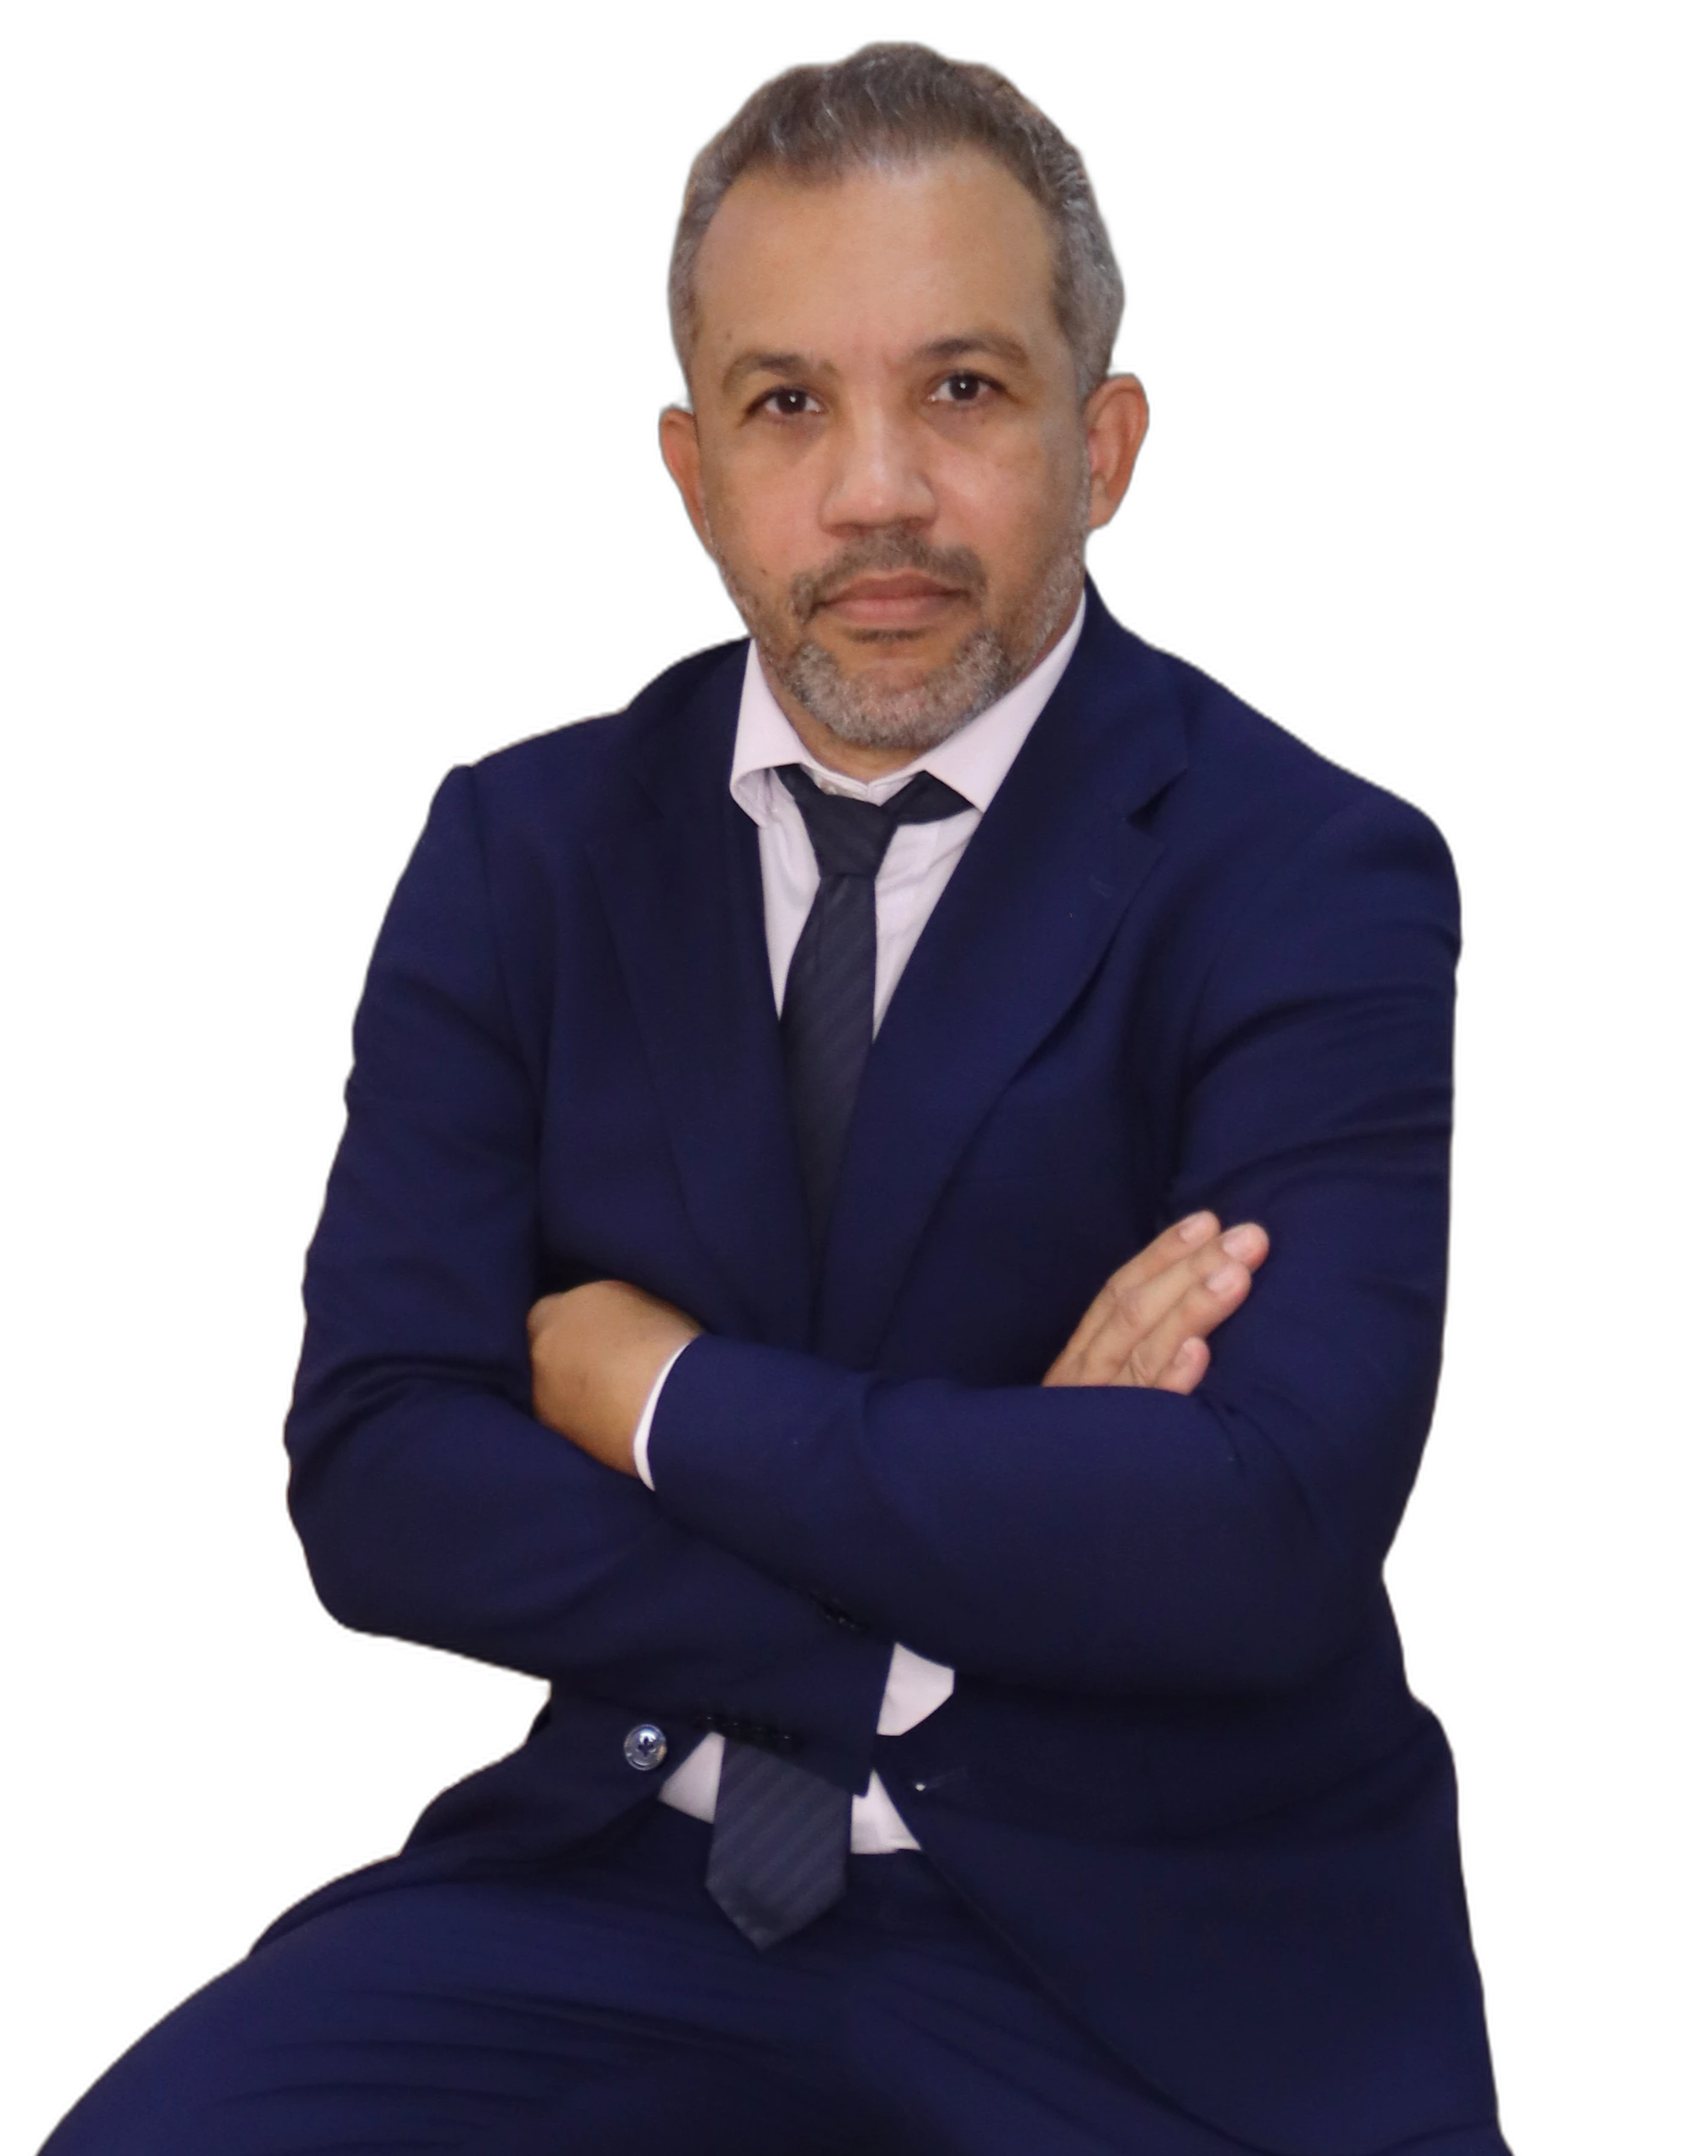
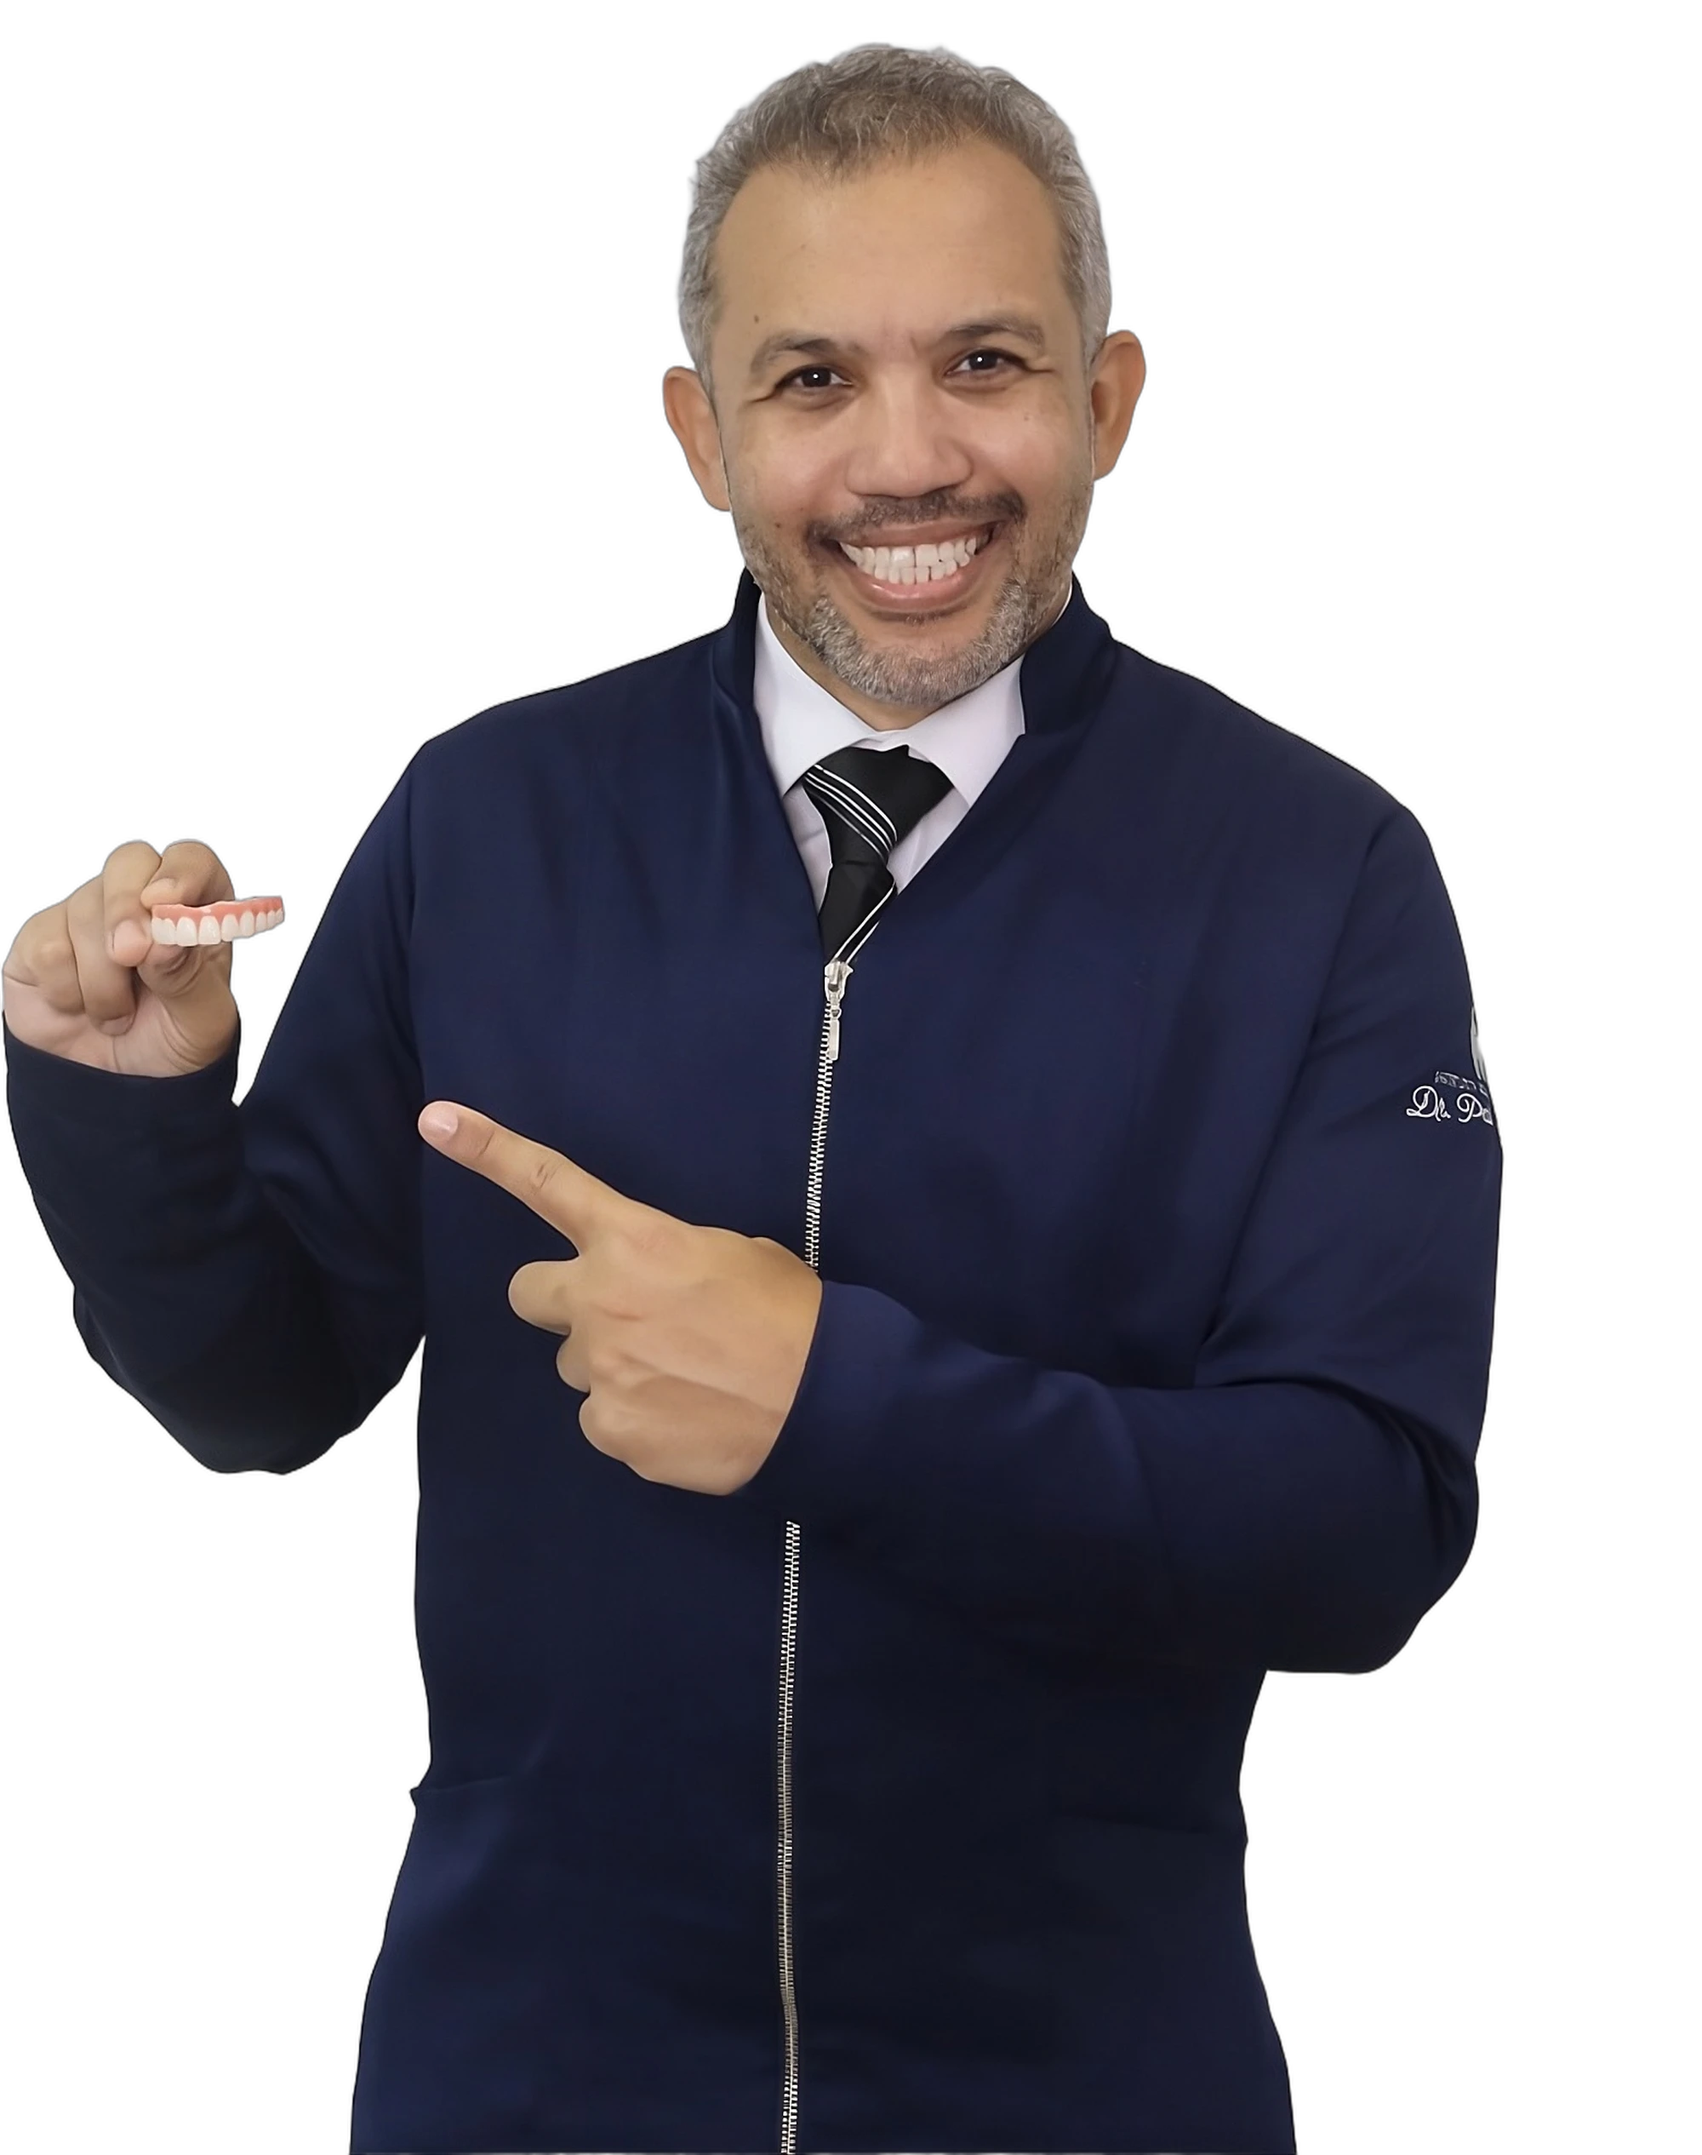
Troca a foto do Dr. Pablo nas 3 páginas (index, principal, imersão)
Nova foto: ele segurando uma prótese e apontando pra ela, em vez da pose
de braços cruzados. Corte, remoção de fundo e ajuste de resolução feitos
a partir da imagem enviada. Como as 3 páginas já compartilhavam o mesmo
arquivo dr-pablo-hero-bg.webp (ou passaram a compartilhar, no caso da
imersão), a troca ficou centralizada num único arquivo.

diff --git a/paginaprincipal.html b/paginaprincipal.html
@@ -310,7 +310,7 @@ footer p{color:var(--text-faint);font-size:0.75rem;margin:0 0 6px;max-width:none
   <div class="container hero__top">
     <div class="hero__photo-wrap">
       <div class="hero__photo-glow" aria-hidden="true"></div>
-      <img class="hero__photo" src="dr-pablo-hero-bg.webp" alt="Dr. Pablo Santos" width="2000" height="2533" loading="eager" fetchpriority="high">
+      <img class="hero__photo" src="dr-pablo-hero-bg.webp" alt="Dr. Pablo Santos" width="2000" height="2531" loading="eager" fetchpriority="high">
     </div>
     <div class="hero__text">
       <h1>Protocolo inferior: o passo a passo que 8.000+ casos já validaram, do zero ao acabamento, em um dia</h1>

diff --git a/index.html b/index.html
@@ -534,7 +534,7 @@ footer p{color:var(--texto-faint);font-size:var(--text-disclaimer);margin:0 0 va
 
     <div class="hero__media-wrap">
       <div class="hero__media-glow" aria-hidden="true"></div>
-      <img class="hero__media" src="dr-pablo-hero-bg.webp" alt="Dr. Pablo Santos" width="2000" height="2533" loading="eager" fetchpriority="high" decoding="async">
+      <img class="hero__media" src="dr-pablo-hero-bg.webp" alt="Dr. Pablo Santos" width="2000" height="2531" loading="eager" fetchpriority="high" decoding="async">
     </div>
 
     <div class="hero__action">

diff --git a/paginaimersao.html b/paginaimersao.html
@@ -380,7 +380,7 @@ a{color:inherit}
 
       <div class="hero__media" data-reveal="media">
         <div class="hero__shape" aria-hidden="true"></div>
-        <img class="hero__photo" src="dr-pablo-hero-bg.webp" alt="Dr. Pablo Santos" width="2000" height="2533" loading="eager" fetchpriority="high">
+        <img class="hero__photo" src="dr-pablo-hero-bg.webp" alt="Dr. Pablo Santos" width="2000" height="2531" loading="eager" fetchpriority="high">
         <div class="hero__fade" aria-hidden="true"></div>
       </div>
       <div class="hero__stats" data-reveal="5">
